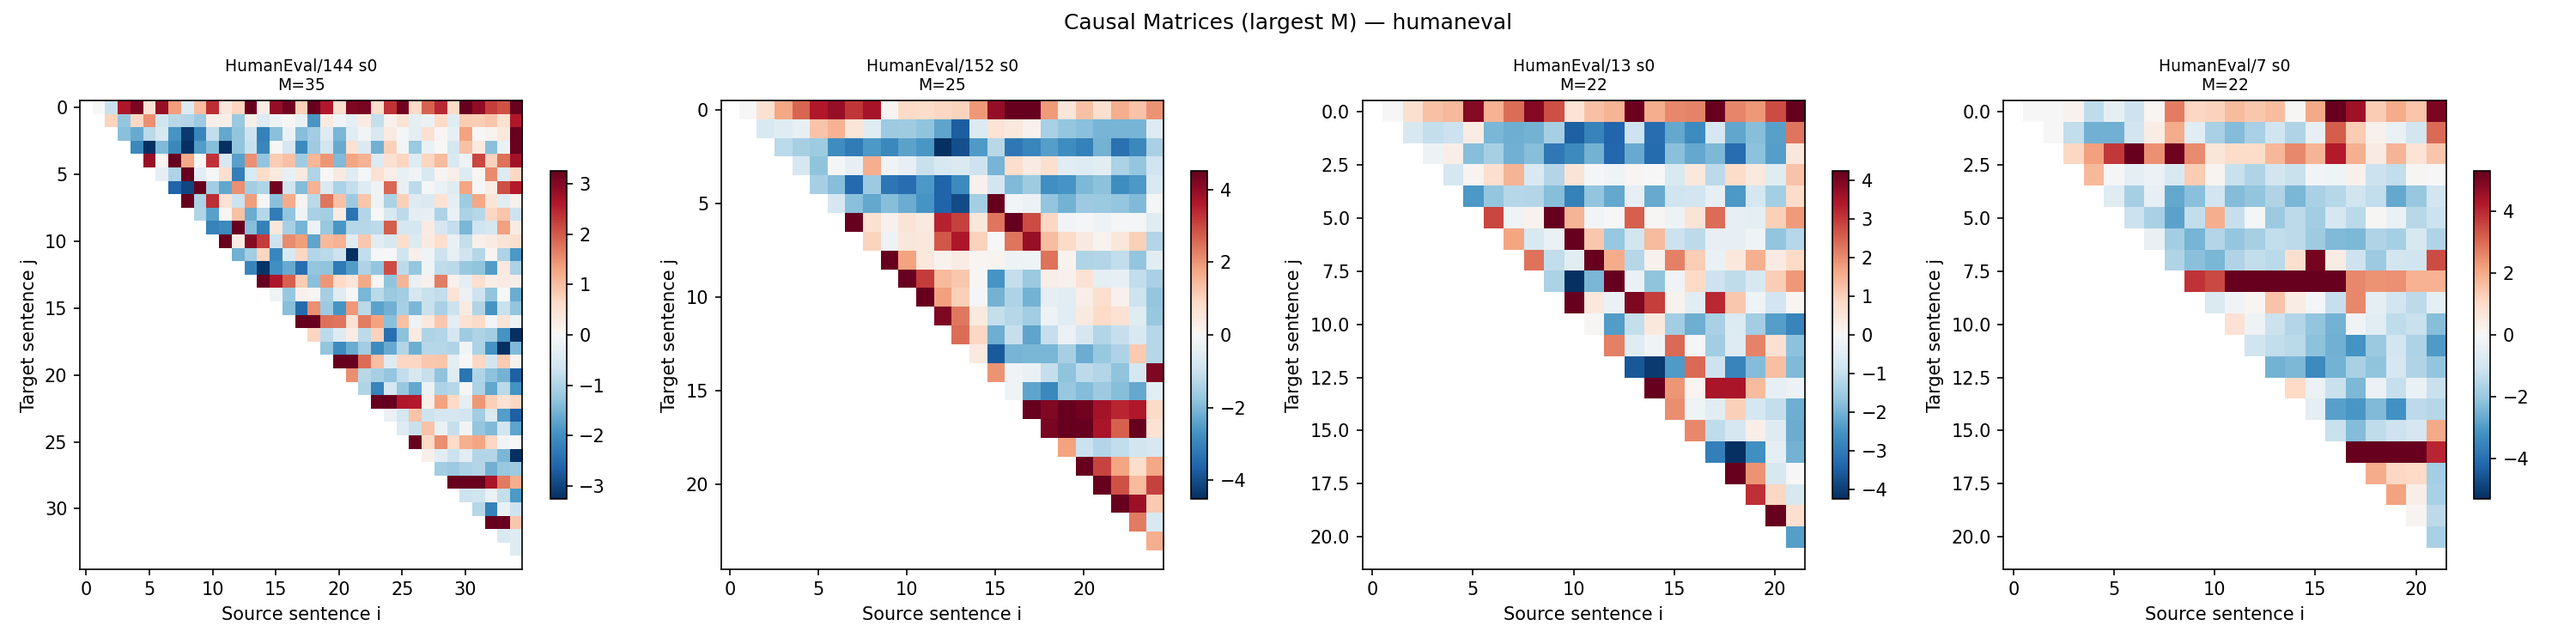
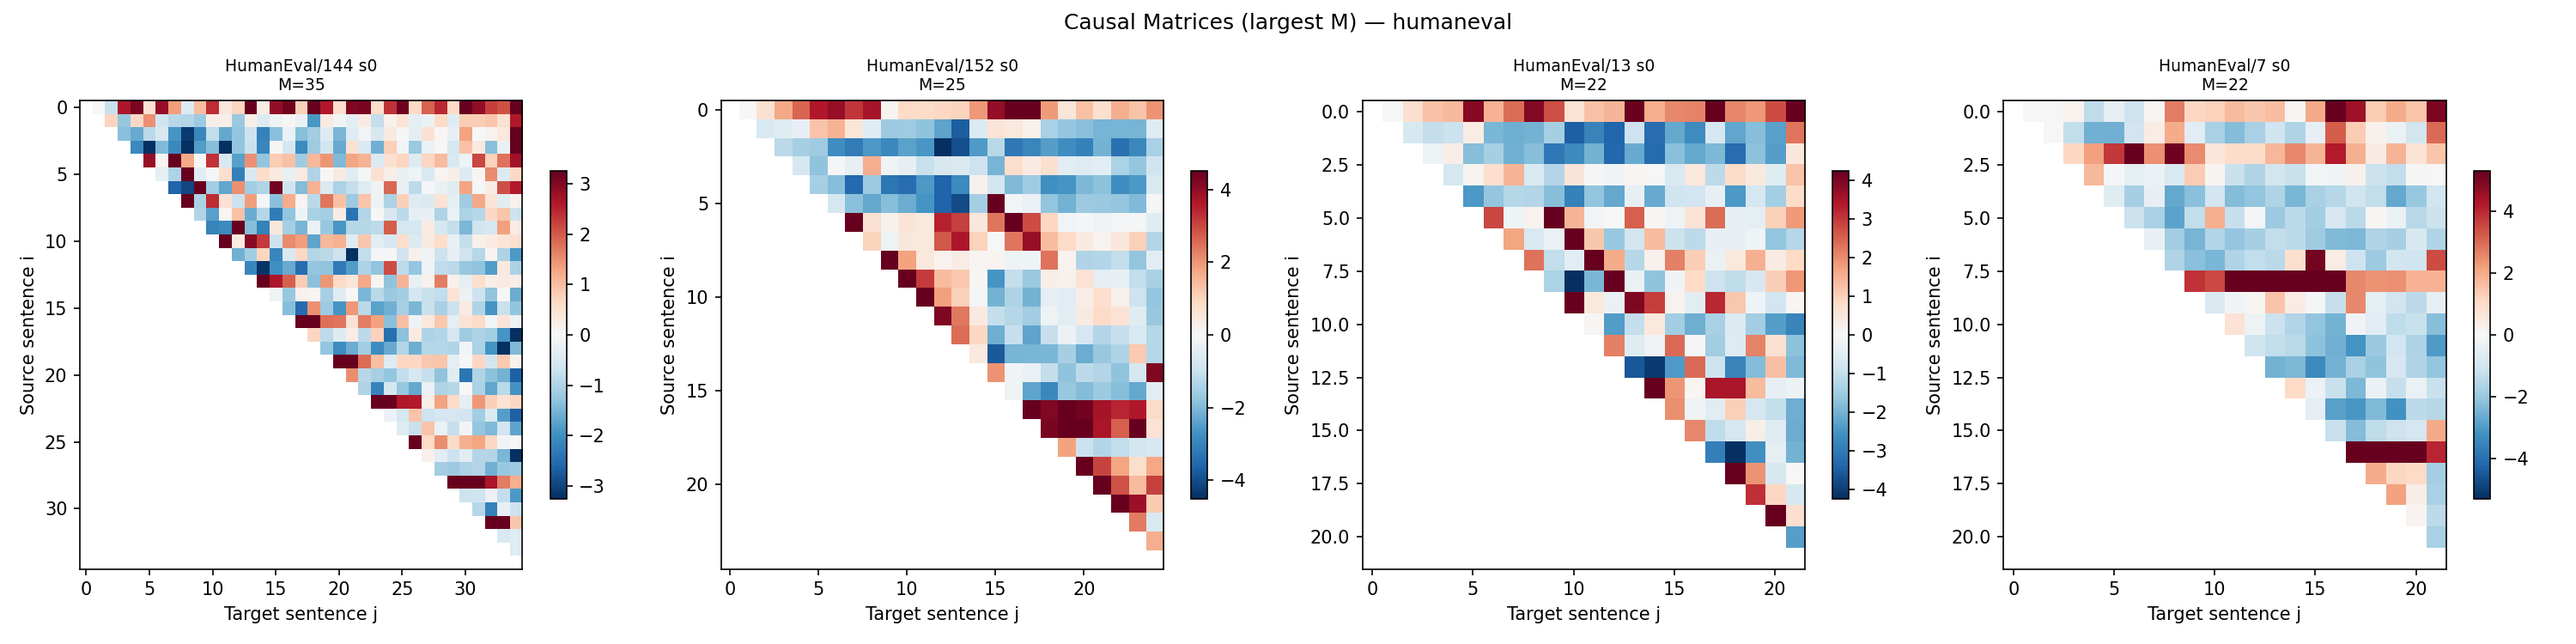
axis fixes

diff --git a/analyze_causal_matrices.py b/analyze_causal_matrices.py
@@ -213,8 +213,8 @@ def run_analysis(rows: list[dict], dataset_label: str) -> None:
         vmax = np.nanpercentile(np.abs(matrix), 95)
         im = ax.imshow(matrix, cmap="RdBu_r", vmin=-vmax, vmax=vmax, aspect="auto")
         ax.set_title(f"{row['task_id']} s{row['sample_id']}\nM={row['M']}", fontsize=9)
-        ax.set_xlabel("Source sentence i")
-        ax.set_ylabel("Target sentence j")
+        ax.set_xlabel("Target sentence j")
+        ax.set_ylabel("Source sentence i")
         plt.colorbar(im, ax=ax, shrink=0.7)
 
     plt.suptitle(f"Causal Matrices (largest M) — {dataset_label}", fontsize=12)
